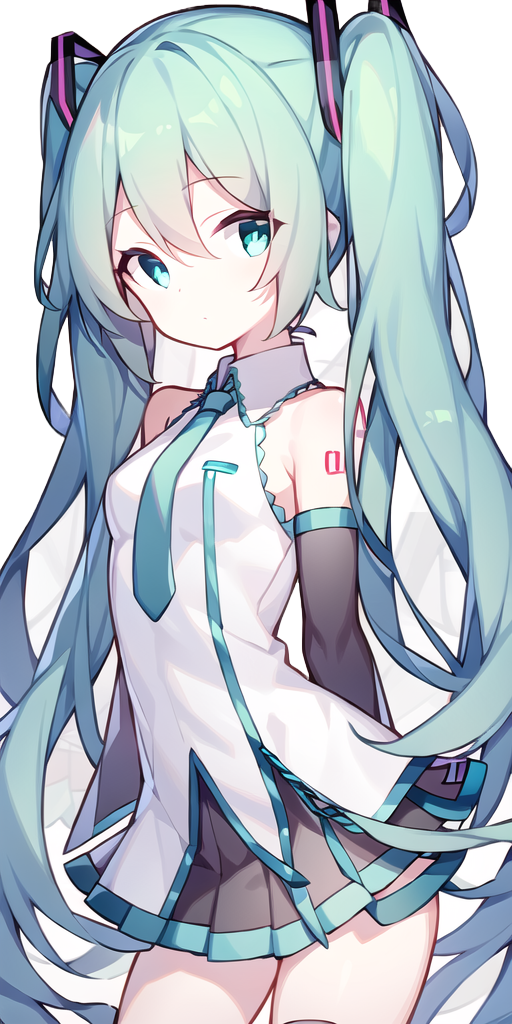
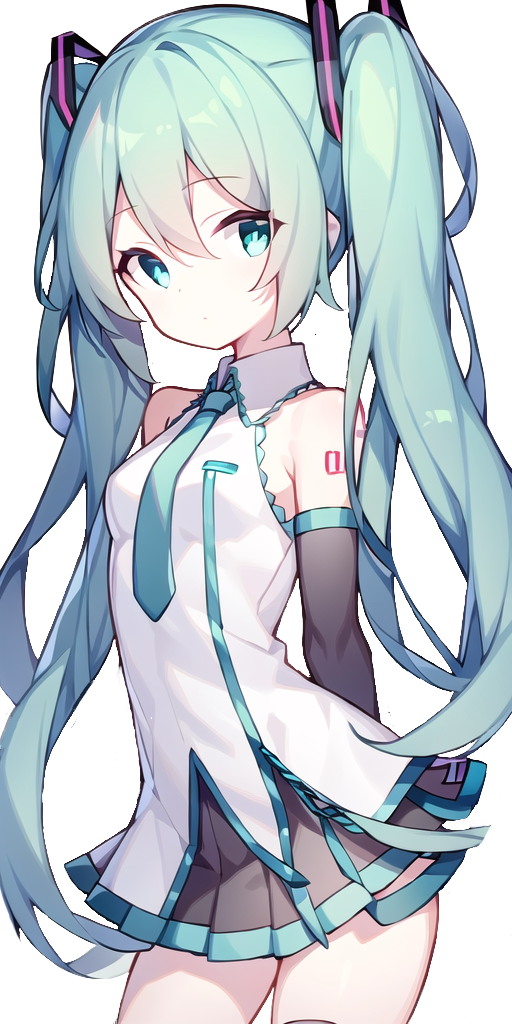
Character Transparent.
and close eye image improved.

diff --git a/src/atoms/Charactor/Charactor.css b/src/atoms/Charactor/Charactor.css
@@ -1,0 +1,11 @@
+.charactor {
+  position: absolute;
+  top: 60px;
+  left: 1160px;
+  height: 934px;
+  object-fit: cover;
+}
+
+.charactor::-webkit-scrollbar {
+  display: none;
+}
